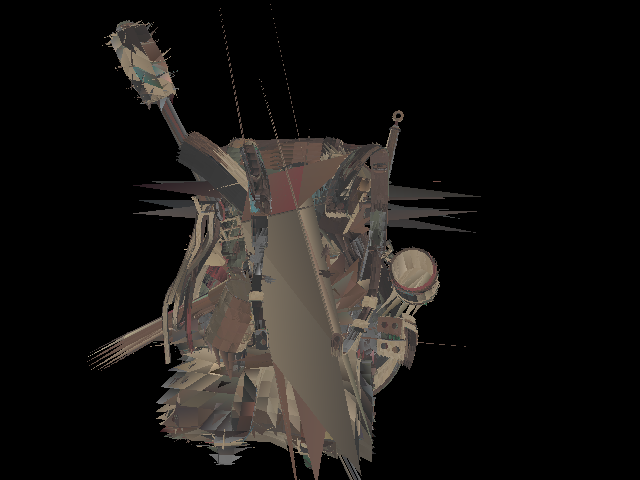
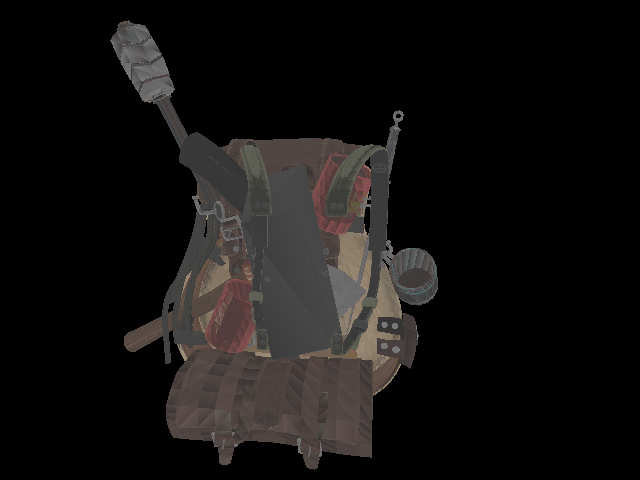
Raytracinhg working without object cull

Changed region(s): [[0.1562, 0.0312, 0.75, 1.0]]

diff --git a/RayTracer/ModelRayCaster.cpp b/RayTracer/ModelRayCaster.cpp
@@ -13,6 +13,7 @@ ModelRayCaster::ModelRayCaster(std::unique_ptr<Model> model, std::unique_ptr<Cam
 	m_width(width),
 	m_height(height)
 {
+	m_camera->cameraToWorld = std::move(Transform::cameraToWorld(m_camera->eye, m_camera->center, m_camera->up));
 }
 
 bool ModelRayCaster::trace(Ray& ray, const std::vector<std::shared_ptr<FacetTriangle>>& triangles, std::shared_ptr<FacetTriangle>& hitObject)
@@ -100,9 +101,9 @@ bool ModelRayCaster::CastRay(Ray& ray, std::shared_ptr<Mesh> mesh, aiColor3D& co
 
 	glm::vec3 reflectionDir = glm::reflect(-glm::normalize(lightPos - P), glm::vec3(normal.x, normal.y, normal.z));
 
-	float spec = pow(glm::max(glm::dot(glm::normalize(m_camera->eye - P), reflectionDir), 0.f), 32.f);
+	float spec = pow(glm::max(glm::dot(glm::normalize(m_camera->eye - P), reflectionDir), 0.f), material->shininess);
 
-	color = ambientLight + diffuse * diffuseLight; // + specular * spec * specularLight;
+	color = ambientLight + diffuse * diffuseLight + specular * spec * specularLight;
 
 	return true;
 }
@@ -131,23 +132,15 @@ void ModelRayCaster::serialize()
 	stbi_write_png("out.png", m_width, m_height, 3, m_pixels, m_width * 3);
 }
 
-glm::mat4 ModelRayCaster::CameraToWorld()
+glm::mat4 ModelRayCaster::CameraToWorld() const	
 {
-	static bool isMatrixCalculated = false;
-
-	if (!isMatrixCalculated)
-	{
-		isMatrixCalculated = true;
-		m_camera->cameraToWorld = std::move(Transform::cameraToWorld(m_camera->eye, m_camera->center, m_camera->up));
-	}
-
 	return m_camera->cameraToWorld;
 }
 
 int ModelRayCaster::GetIndex(const aiVector2D& texCoords, const Image& image)
 {
 	int x = static_cast<int>(texCoords.x * (image.width - 1));
-	int y = static_cast<int>(texCoords.y * (image.height - 1));
+	int y = static_cast<int>((1.f - texCoords.y) * (image.height - 1));
 	int index = (y * image.width + x) * image.channels;
 
 	return index;
@@ -155,6 +148,9 @@ int ModelRayCaster::GetIndex(const aiVector2D& texCoords, const Image& image)
 
 aiColor3D ModelRayCaster::GetColor(int index, const Image& image)
 {
+	if (!image.data || !strcmp((const char*)image.data, ""))
+		return aiColor3D(1., 1., 1.);
+
 	float R = image.data[index] / 255.0f;
 	float G = image.data[index + 1] / 255.0f;
 	float B = image.data[index + 2] / 255.0f;

diff --git a/Primitives/FacetTriangle.cpp b/Primitives/FacetTriangle.cpp
@@ -26,7 +26,7 @@ bool FacetTriangle::intersect(const glm::vec3& dir, const glm::vec3& origin, flo
     // ray is behind triangle
     // check if ray direction and normal are parallel
     // also enable back face culling
-    if (t < 0)
+    if (t < 1e-8)
         return false;
 
     glm::vec3 intersection = origin + t * dir;
@@ -41,7 +41,7 @@ bool FacetTriangle::intersect(const glm::vec3& dir, const glm::vec3& origin, flo
 
     baryCenter.v = glm::dot(glm::cross(ToVec3(p3.Position) - ToVec3(p2.Position), intersection - ToVec3(p2.Position)), normal) / NDotN;
 
-    if (baryCenter.v < 0 || baryCenter.v > 1)
+    if (baryCenter.v < 0 || baryCenter.v > 1 || baryCenter.u + baryCenter.v > 1.)
         return false;
 
     baryCenter.w = (1.f - baryCenter.u - baryCenter.v);
@@ -49,7 +49,7 @@ bool FacetTriangle::intersect(const glm::vec3& dir, const glm::vec3& origin, flo
     return true;
 }
 
-void FacetTriangle::GetSurfaceData(const glm::vec3& pHit, glm::vec3& nHit, glm::vec2& textCoord)
+void FacetTriangle::GetSurfaceData(const glm::vec3& pHit, glm::vec3& nHit, glm::vec2& texCoord)
 {
 }
 

diff --git a/ModelTracer/main.cpp b/ModelTracer/main.cpp
@@ -4,13 +4,19 @@
 
 int main()
 {
-	std::unique_ptr<Model> model = std::make_unique<Model>("backpack.obj");
+	std::unique_ptr<Model> model = std::make_unique<Model>("backpack.obj"); // space-shuttle-orbiter.obj
+	//std::unique_ptr<Model> model = std::make_unique<Model>("space-shuttle-orbiter.obj");
 
 	std::unique_ptr<Camera> camera = std::make_unique<Camera>();
-	camera->eye = glm::vec3(1.16f, 1.44f, 4.41f);
+	camera->eye =	glm::vec3(1.16f, 1.44f, 4.41f);
 	camera->center = glm::vec3(1.0f, 1.25f, 3.41f);
-	camera->up = glm::vec3 (0.0f, 1.0f, 0.f);
-	camera->fov = 60.f;
+	camera->up =	glm::vec3(0.0f, 1.0f, 0.f);
+	camera->fov = 60.f; // 30.f
+
+	//camera->eye = glm::vec3(-2086.1741055487196, 1488.3775094607265, 1234.451129921472);
+	//camera->center = glm::vec3(9.264007500000021, 149.32280699999998, -82.22146599999996);
+	//camera->up = glm::vec3(0.2501300083849314, 0.8490283395828082, -0.465387857051099);
+	//camera->fov = 30.f;
 
 	std::unique_ptr<ModelRayCaster> rayCaster = std::make_unique<ModelRayCaster>(std::move(model), std::move(camera), 640, 480);
 	rayCaster->render();

diff --git a/Model/Model.cpp b/Model/Model.cpp
@@ -15,6 +15,15 @@ Model::Model(const std::string& path)
     loadModel(path);
 }
 
+Model::~Model()
+{
+    for (auto i : m_diffuseMaps)
+        stbi_image_free(i.second.data);
+
+    for (auto i : m_specularMaps)
+        stbi_image_free(i.second.data);
+}
+
 void Model::loadModel(const std::string& path)
 {
     Assimp::Importer importer;
@@ -59,7 +68,16 @@ void Model::loadTextureMaps(aiMaterial* material, aiTextureType type, std::map<s
         if (textureMap.find(str.C_Str()) == textureMap.end())
         {
             int width, height, channels;
+
+            stbi_info(str.C_Str(), &width, &height, &channels);
+
+            std::cout << "Width:" << width << " Height:" << height << " Channels:" << channels << std::endl;
+
             unsigned char* data = stbi_load(str.C_Str(), &width, &height, &channels, 3);
+
+            if (stbi_failure_reason() && !data && !strcmp((const char*)data, ""))
+                std::cout << stbi_failure_reason() << std::endl;
+
             textureMap[str.C_Str()] = Image{ data, width, height, channels };
         }
     }

diff --git a/RayTracer/IRayCaster.cpp b/RayTracer/IRayCaster.cpp
@@ -9,6 +9,7 @@ IRayCaster::IRayCaster(std::unique_ptr<Camera> camera, int width, int height) :
 	m_width(width),
 	m_height(height)
 {
+	m_camera->cameraToWorld = std::move(Transform::cameraToWorld(m_camera->eye, m_camera->center, m_camera->up));
 }
 
 void IRayCaster::render(const std::vector<std::shared_ptr<IObject>>& objects)
@@ -95,16 +96,8 @@ bool IRayCaster::trace(Ray& ray, const std::vector<std::shared_ptr<IObject>>& ob
 	return hitObject != nullptr;
 }
 
-glm::mat4 IRayCaster::CameraToWorld()
+glm::mat4 IRayCaster::CameraToWorld() const
 {
-	static bool isMatrixCalculated = false;
-
-	if (!isMatrixCalculated)
-	{
-		isMatrixCalculated = true;
-		m_camera->cameraToWorld = std::move(Transform::cameraToWorld(m_camera->eye, m_camera->center, m_camera->up));
-	}
-
 	return m_camera->cameraToWorld;
 }
 

diff --git a/Primitives/FacetTriangle.h b/Primitives/FacetTriangle.h
@@ -13,7 +13,7 @@ public:
 
 	bool intersect(const glm::vec3& dir, const glm::vec3& origin, float& t) const override;
 
-	void GetSurfaceData(const glm::vec3& pHit, glm::vec3& nHit, glm::vec2& textCoord) override;
+	void GetSurfaceData(const glm::vec3& pHit, glm::vec3& nHit, glm::vec2& texCoord) override;
 
 public:
 	Vertex p1;

diff --git a/stb_image/stb_image.cpp b/stb_image/stb_image.cpp
@@ -1,7 +1,10 @@
 #define STB_IMAGE_IMPLEMENTATION
 
+#define STBI_FAILURE_USERMSG //generate user friendly error messages
+
 #include "stb_image.h"
 
 #define STB_IMAGE_WRITE_IMPLEMENTATION
 
 #include "stb_image_write.h"
+

diff --git a/RayTracer/ModelRayCaster.h b/RayTracer/ModelRayCaster.h
@@ -22,7 +22,7 @@ private:
 
 	void serialize();
 
-	glm::mat4 CameraToWorld();
+	glm::mat4 CameraToWorld() const;
 
 	aiColor3D CalculateColor(const std::shared_ptr<FacetTriangle> triangle, const Image& image);
 

diff --git a/RayTracer/IRayCaster.h b/RayTracer/IRayCaster.h
@@ -49,7 +49,7 @@ private:
 	Ray GenerateRay(int x, int y);
 
 
-	glm::mat4 CameraToWorld();
+	glm::mat4 CameraToWorld() const;
 
 	float clamp(float min, float max, float value);
 

diff --git a/Model/Model.h b/Model/Model.h
@@ -26,6 +26,8 @@ public:
     Model& operator=(const Model&) = delete;
     Model& operator=(Model&&) = default;
 
+    ~Model();
+
     void render();
 
 private:
